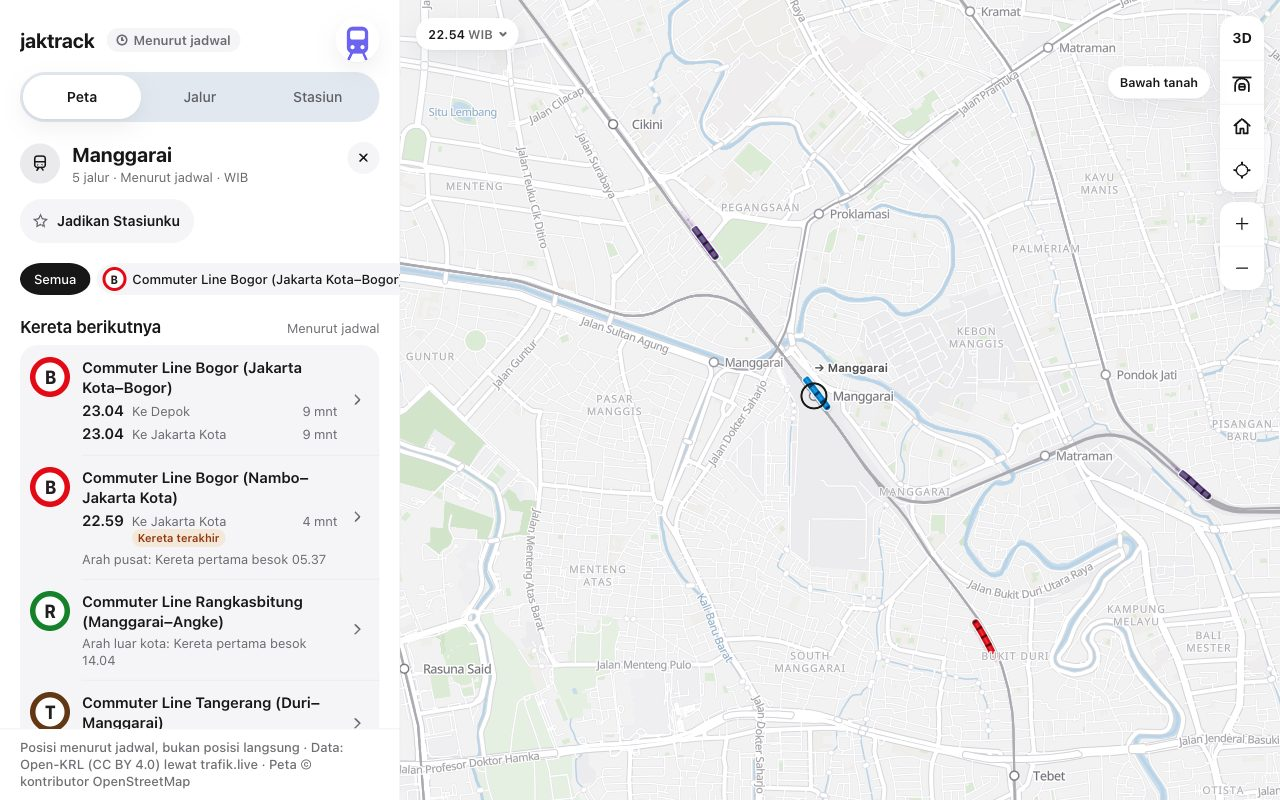
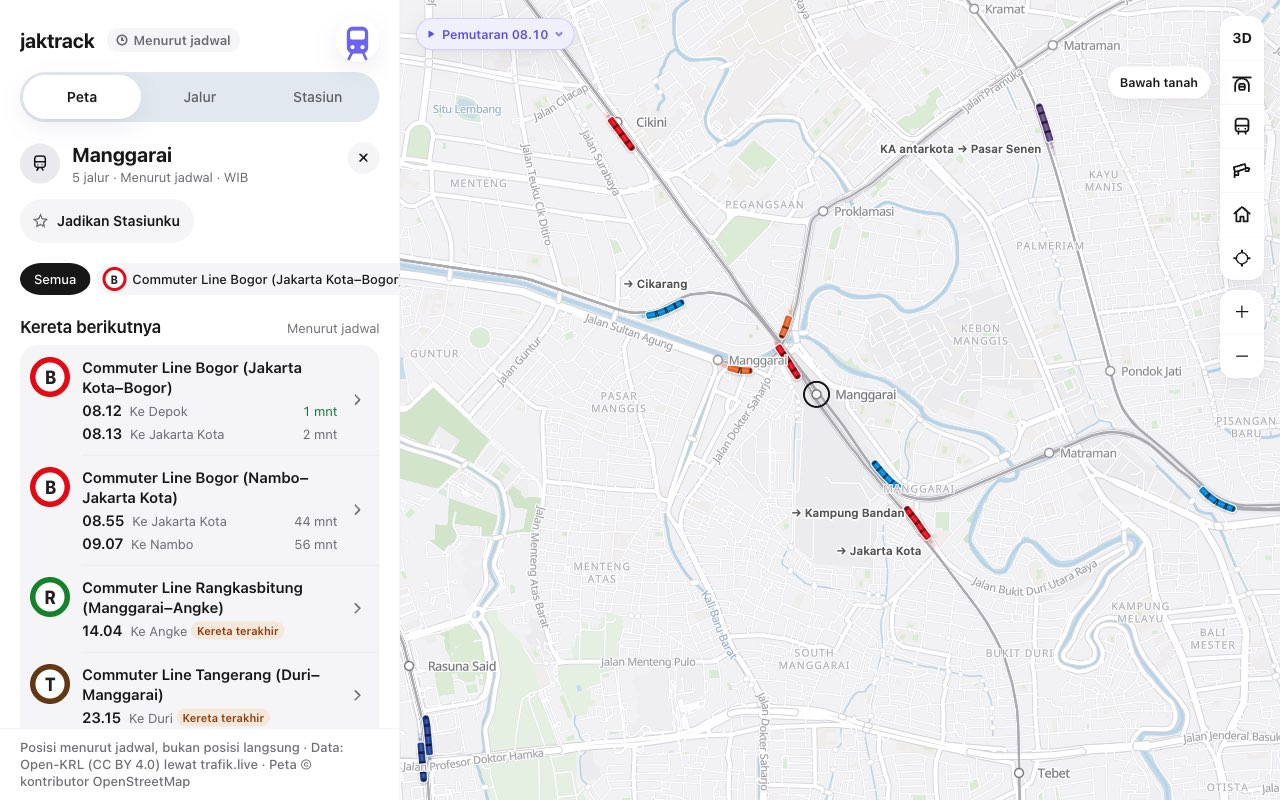
docs: README dan tangkapan layar mengikuti keadaan main (rel 3D, https dev, gestur)
- Tujuh tangkapan diganti dan dua ditambah (08-rel-3d, 09-bawah-tanah), diambil
  dari server dev lokal dengan pemutaran pukul 08.10-08.15, lapisan bus mati.
- Fitur: rel berwarna jalur di 3D, "Kereta di dekatku" dan lokasi lewat https,
  pemutaran ulang waktu, gestur touchpad; keduanya keluar dari daftar belum diuji.
- Menjalankan: bun run dev:https; ukuran web/dist diukur ulang (3,2 MB).
- Struktur repo dan batasan baru: rel bersama bertumpuk, gestur dan https dev
  belum diuji di perangkat nyata, wesel di ujung tidak dimodelkan.
- package.json: skrip test menjadi `bun test` agar uji trackpad ikut (37 lulus).

diff --git a/README.md b/README.md
@@ -22,19 +22,20 @@ Peta kereta Jabodetabek di browser: KRL Commuter Line, MRT Jakarta, LRT Jakarta,
 
 ## Tangkapan layar
 
-Diambil 14 November 2026 sekitar pukul 22.55 WIB dari server dev lokal, dalam bahasa Indonesia.
+Diambil 15 November 2026 sekitar pukul 02.50 WIB dari server dev lokal, dalam bahasa Indonesia, dengan pemutaran pukul 08.10–08.15 (hari layanan Sabtu 14 November, jadwal akhir pekan), karena pada jam pengambilan hampir tidak ada kereta. Lapisan bus dimatikan supaya kereta terlihat.
 
 | | |
 |---|---|
-| **Daftar jalur.** Tiap jalur dengan jumlah kereta yang sedang jalan dan jarak antar-kereta.<br>![Daftar jalur](docs/media/02-jalur.jpg) | **Papan stasiun.** Kereta berikutnya dari Manggarai per jalur dan arah, termasuk kereta terakhir.<br>![Papan stasiun Manggarai](docs/media/03-papan-stasiun.jpg) |
-| **Detail kereta.** KRL 1456 tujuan Depok: posisi sekarang, semua stasiun berikutnya, dan kamera yang mengikuti kereta.<br>![Detail satu kereta](docs/media/04-kereta.jpg) | **Kota 3D.** Stasiun Manggarai dengan gedung 3D dan kereta di relnya.<br>![Kota 3D di Manggarai](docs/media/05-kota-3d.jpg) |
+| **Daftar jalur.** Tiap jalur dengan jumlah kereta yang sedang jalan dan jarak antar-kereta.<br>![Daftar jalur](docs/media/02-jalur.jpg) | **Papan stasiun.** Kereta berikutnya dari Manggarai per jalur dan arah, termasuk kereta terakhir Lin Rangkasbitung dan Tangerang.<br>![Papan stasiun Manggarai](docs/media/03-papan-stasiun.jpg) |
+| **Detail kereta.** KRL 1194 tujuan Bogor di antara Cikini dan Manggarai: posisi sekarang, semua stasiun berikutnya, dan kamera yang mengikuti kereta.<br>![Detail satu kereta](docs/media/04-kereta.jpg) | **Kota 3D.** Stasiun Manggarai dengan gedung 3D; tiap rel berwarna jalurnya dan kereta berjalan di atasnya.<br>![Kota 3D di Manggarai](docs/media/05-kota-3d.jpg) |
 | **Tentang.** Penjelasan "menurut jadwal", pilihan bahasa, serta sumber dan kredit data.<br>![Halaman Tentang](docs/media/06-tentang.jpg) | **Ponsel.** Tata letak lembar bawah pada layar 390 × 844.<br><img src="docs/media/07-ponsel.jpg" alt="Tampilan ponsel" width="260"> |
+| **Rel di 3D.** Dua kereta MRT berpapasan di landaian ASEAN–Senayan: dua rel merah di atas dek viaduk, lalu putus-putus di terowongan.<br>![Rel MRT di landaian ASEAN–Senayan](docs/media/08-rel-3d.jpg) | **Bawah tanah.** Tempat yang sama dalam mode Bawah tanah: rel terbuka sampai mulut tabung, kotak stasiun Senayan dan Istora, dan skala kedalaman.<br>![Mode Bawah tanah di mulut terowongan MRT](docs/media/09-bawah-tanah.jpg) |
 
 ## Fitur
 
 Sudah dicoba di browser dan berjalan:
 
-- **Peta 2D** dengan setiap kereta bergerak di relnya, berwarna sesuai jalur. Sekitar 60–85 kereta pada malam hari.
+- **Peta 2D** dengan setiap kereta bergerak di relnya, berwarna sesuai jalur. Sekitar 60–85 kereta pada malam hari; 102 pada pemutaran pukul 08.10 dengan jadwal akhir pekan.
 - **Bus TransJakarta (simulasi dari jadwal)**: menyala secara bawaan bila data bus sudah dibangun; tombol bus di kartu kontrol peta mematikan atau menyalakannya, dan pilihan itu diingat browser. Beranda memuat baris TransJakarta dengan jumlah bus pada jam halaman (tidak dijumlahkan ke angka kereta). Tiap bus bergerak di sepanjang rutenya dan bisa diketuk untuk melihat rute, tujuan, dan halte berikutnya. Ini bukan posisi langsung; lihat [keterbatasannya](#bus-transjakarta-simulasi-bukan-posisi-langsung).
 - **Rute dan halte bus**: di tab Jalur ada bagian TransJakarta berisi 241 rute (koridor BRT lebih dulu) dengan headway saat ini dan saringan jenis layanan; saringan itu juga berlaku untuk bus di peta. Mengetuk rute menggambar rute, halte, dan busnya. Mengetuk halte (di peta pada zoom dekat, dari lembar rute, atau dari pencarian) membuka rute yang lewat beserta kedatangan berikutnya, berlabel "perkiraan dari jadwal". Pencarian menemukan rute dan halte bus.
 - **CCTV lalu lintas (opsional)**: tombol kamera di kartu kontrol peta menampilkan pin kamera. Ketuk pin untuk melihat nama, lokasi, pemilik, dan sudut kamera, dengan tautan "Buka di situs pemilik" sebagai aksi utama. Video diputar di dalam halaman hanya di browser yang memutar HLS sendiri; lihat [keterbatasannya](#cctv-opsional-dan-milik-pihak-lain).
@@ -43,11 +44,15 @@ Sudah dicoba di browser dan berjalan:
 - **Detail kereta**: semua pemberhentian, posisi sekarang, dan mode mengikuti kereta.
 - **Pencarian** stasiun, jalur, dan nomor kereta.
 - **Kota 3D** dengan titik terbang ke Manggarai, Sudirman, Gambir, dan Jakarta Kota.
+- **Rel di 3D**: tiap rel digambar sebagai pita berwarna jalurnya, dua di ruas jalur ganda dan satu di rel tunggal, dan kereta tiap arah berjalan di relnya sendiri. Pitanya menerus dari ujung ke ujung jalur: di atas dek viaduk, di permukaan, menuruni landaian, dan putus-putus di dalam terowongan. Jalur atau kereta yang dibuka menyorot kedua relnya, dan rel jalur lain mundur ke abu-abu. Rinciannya di [docs/REL.md](docs/REL.md).
 - **Bawah tanah** (tombol di kanan atas): terowongan MRT Senayan–Bundaran HI, kotak stasiunnya, dan kereta di dalamnya, termasuk "Ikut di terowongan" dari detail kereta MRT.
+- **Kereta di dekatku**: tombolnya selalu tampil di beranda, tanpa perlu memilih stasiun dulu. Lokasi baru diminta saat tombol diketuk dan tidak dikirim ke mana pun. Browser hanya membagikan lokasi lewat https atau `localhost`; untuk perangkat lain di jaringan yang sama ada `bun run dev:https` ([docs/LOKASI.md](docs/LOKASI.md)). Diuji dengan lokasi tiruan di Chrome headless, belum di ponsel sungguhan.
+- **Pemutaran ulang waktu**: cip jam di peta memindahkan halaman ke jam lain pada hari layanan yang sama; kereta dan bus ikut.
+- **Gestur touchpad Mac** di 2D dan 3D: geser dua jari menggeser peta, cubit untuk zoom di kursor, Option + geser untuk memutar atau memiringkan. Roda tetikus tetap zoom ([docs/GESTUR.md](docs/GESTUR.md)). Diuji dengan event sintetis di Chromium, belum di touchpad fisik.
 - **Bahasa** Indonesia (bawaan) dan Inggris.
 - **Tata letak ponsel** dan desktop.
 
-Ada di kode bawaan tokyo-rail-twin tetapi **belum diuji dengan data Jakarta**: perencana rute, pemutaran ulang waktu, terbang bebas, mode luring (service worker), dan "kereta di dekatku".
+Ada di kode bawaan tokyo-rail-twin tetapi **belum diuji dengan data Jakarta**: perencana rute, mode luring (service worker), dan terbang bebas (hanya dipastikan mulai tanpa galat konsol). Hasil uji lewat browser ada di [docs/E2E.md](docs/E2E.md).
 
 Tidak ada: posisi langsung (kereta maupun bus), pintu keluar stasiun, tarif.
 
@@ -67,8 +72,9 @@ Perintah lain:
 
 | Perintah | Guna |
 |---|---|
-| `bun test` | Memeriksa berkas hasil `bun run data` dengan pembaca milik halaman web |
-| `bun run build` | Situs statis di `web/dist` (±3,3 MB), bisa disajikan server web mana pun |
+| `bun run dev:https` | Server dev lewat https di semua antarmuka jaringan, dengan sertifikat self-signed di `var/tls/` (butuh `openssl`), supaya lokasi berfungsi dari ponsel di jaringan yang sama ([docs/LOKASI.md](docs/LOKASI.md)) |
+| `bun test` | Memeriksa berkas hasil `bun run data` dengan pembaca milik halaman web, dan menguji pengenal gestur touchpad |
+| `bun run build` | Situs statis di `web/dist` (±3,2 MB), bisa disajikan server web mana pun |
 
 Tanpa langkah 1 dan 2, `bun run data` berhenti dengan pesan yang menyebut berkas yang kurang.
 
@@ -208,12 +214,16 @@ asset-krl-*.json ─► data-build/jakarta.mjs ─► var/static/tokyo/ ─► w
 | `data-build/bus.test.mjs` | Uji simulator bus dan berkas hasil bangun bus |
 | `web/src/tokyo/buses/` | Lapisan bus (WebGL), simulator jadwal `sim.js`, daftar rute dan lembar halte `browse.js` |
 | `web/tokyo.html`, `web/src/tokyo/` | Halaman dan modul fiturnya (peta, papan, pencarian, rute, i18n) |
+| `web/src/tokyo/rails.js`, `data-build/rails.test.mjs` | Jumlah rel per ruas dan rel yang dipakai tiap arah, dan ujinya |
 | `web/src/layers/city3d/` | Kota 3D, bawah tanah, kamera |
 | `web/src/map/`, `web/src/app/` | Mesin peta dan pembantu antarmuka |
+| `web/src/map/trackpad.js`, `trackpad.test.mjs` | Gestur touchpad di peta, dan ujinya |
 | `web/build.mjs`, `web/dev-server.mjs` | Bundel esbuild dan server dev |
 | `docs/media/` | Tangkapan layar README |
 | `docs/ELEVASI.md` | Riset ketinggian rel per jalur, dengan sumber |
 | `docs/REL.md` | Jumlah rel per ruas dan sisi jalan kereta, dengan sumber |
+| `docs/LOKASI.md` | "Kereta di dekatku" dari perangkat lain di jaringan yang sama (mode https server dev) |
+| `docs/GESTUR.md` | Gestur peta: touchpad, tetikus, layar sentuh |
 | `docs/E2E.md` | Hasil uji end-to-end manual lewat browser |
 | `third_party/tokyo-rail-twin/` | Lisensi dan pemberitahuan kode asal |
 | `KNOWLEDGE.md` | Catatan riset trafik.live |
@@ -223,16 +233,18 @@ Nama `tokyo` pada folder, berkas, dan jenis berkas data (`tokyo-network`) adalah
 ## Yang belum disesuaikan
 
 - **Sisa Tokyo di antarmuka.** Penjelasan jenis kereta Jepang di halaman Tentang dan teks bahasa Jepang.
-- **Kereta dua arah berjalan di relnya masing-masing** di ruas jalur ganda (2D dan 3D), di sisi kanan arah jalannya; di rel tunggal tetap di satu garis. Jumlah rel dan sisi jalan dari OpenStreetMap dan Wikipedia ([docs/REL.md](docs/REL.md)). Di ruas tiga rel atau lebih, rel yang dipakai tiap jalur tidak diketahui; kereta ditaruh di sepasang rel terdekat.
-- **Jalur bercabang tampil sebagai beberapa jalur**, dan jalur yang berbagi rel digambar bertumpuk.
+- **Kereta dua arah berjalan di relnya masing-masing** di ruas jalur ganda (2D dan 3D), di sisi kanan arah jalannya; di rel tunggal tetap di satu garis. Jumlah rel dan sisi jalan dari OpenStreetMap dan Wikipedia ([docs/REL.md](docs/REL.md)). Di ruas tiga rel atau lebih, rel yang dipakai tiap jalur tidak diketahui; kereta ditaruh di sepasang rel terdekat. Pindah rel (wesel) di stasiun ujung tidak dimodelkan.
+- **Jalur bercabang tampil sebagai beberapa jalur**, dan jalur yang berbagi rel digambar bertumpuk. Di 3D rel bersama itu hanya memperlihatkan warna jalur yang terakhir di daftar.
 - **Hari libur nasional belum ada.** Hanya Sabtu dan Minggu yang memakai jadwal akhir pekan. Jadwal KRL hari Sabtu memakai tangkapan hari Minggu, karena sumbernya tidak punya tangkapan Sabtu.
 - **Stasiun bawah tanah ditandai dengan tangan**: enam stasiun MRT dari Senayan sampai Bundaran HI (`UNDERGROUND` di `data-build/jakarta.mjs`). Tinggi rel per ruas kini dari tag OpenStreetMap, dan pembangunnya memeriksa silang kedua hal itu.
 - **Angka tinggi dan kedalaman adalah perkiraan**: terowongan 18 m di semua stasiun (digambar 5× lebih dalam), viaduk 12 m ditambah 5 m per tingkat tag `layer` OpenStreetMap di atas 2. Yang bersumber hanya letak ruas layang dan terowongan serta urutan tingkatnya; tinggi dan kedalaman asli tiap stasiun tidak ditemukan (lihat [docs/ELEVASI.md](docs/ELEVASI.md)).
 - **Bentuk terowongan MRT adalah asumsi**: dua tabung perisai kembar di antara stasiun dan kotak di stasiun, dengan ukuran bawaan kode asal. Kedua tabung mengikuti garis tengah rel yang sama dengan jarak tetap, bukan trase asli tiap rel dari OpenStreetMap, dan baru terbaca sebagai dua tabung dari dekat (zoom 18 ke atas atau "Ikut di terowongan").
-- **Viaduk digambar di garis tengah rel OpenStreetMap**, satu dek untuk kedua arah: stasiun layang tanpa bangunan peron, dan jembatan KRL di bawah 300 m (sungai, jalan) tetap di permukaan. Di 3D, garis jalur dan titik stasiun ruas layang digambar di atas dek; nama stasiunnya tetap di posisi tanah.
+- **Viaduk digambar di garis tengah rel OpenStreetMap**, satu dek selebar kedua rel: stasiun layang tanpa bangunan peron, dan jembatan KRL di bawah 300 m (sungai, jalan) tetap di permukaan. Di 3D, rel dan titik stasiun ruas layang digambar di atas dek; nama stasiunnya tetap di posisi tanah. Di bawah zoom 17,5 kereta, jarak rel, dan dek digambar lebih lebar dari aslinya.
 - **Stasiun bernama sama dengan id berbeda** (misalnya Dukuh Atas MRT dan LRT) belum digabung menjadi satu titik pindah.
 - **Daftar "Pilih stasiunmu"** memakai id yang bergantung pada urutan jalur hasil bangun, jadi bisa bergeser bila data berubah.
-- **Uji bawaan tokyo-rail-twin dihapus**, karena mengunci perilaku Tokyo (zona waktu JST, data Tokyo). Yang ada hanya uji berkas hasil bangun.
+- **Uji bawaan tokyo-rail-twin dihapus**, karena mengunci perilaku Tokyo (zona waktu JST, data Tokyo). Yang ada hanya uji berkas hasil bangun dan uji pengenal gestur touchpad.
+- **Gestur touchpad belum diuji di perangkat nyata.** Ujinya memakai event sintetis di Chromium; touchpad fisik, Safari, dan Firefox belum dicoba, dan laju putar dan miringnya masih tebakan awal ([docs/GESTUR.md](docs/GESTUR.md)).
+- **Mode https server dev belum diuji di ponsel sungguhan.** Ujinya memakai Chrome headless dengan lokasi tiruan dan peringatan sertifikat dilewati ([docs/LOKASI.md](docs/LOKASI.md)).
 - **Teks awal tombol bus di `web/tokyo.html`** masih bawaan kode asal ("Show live Toei buses"). Teks itu diganti begitu halaman berjalan, tetapi berkasnya sendiri belum diubah.
 
 ### Bus TransJakarta: simulasi, bukan posisi langsung
